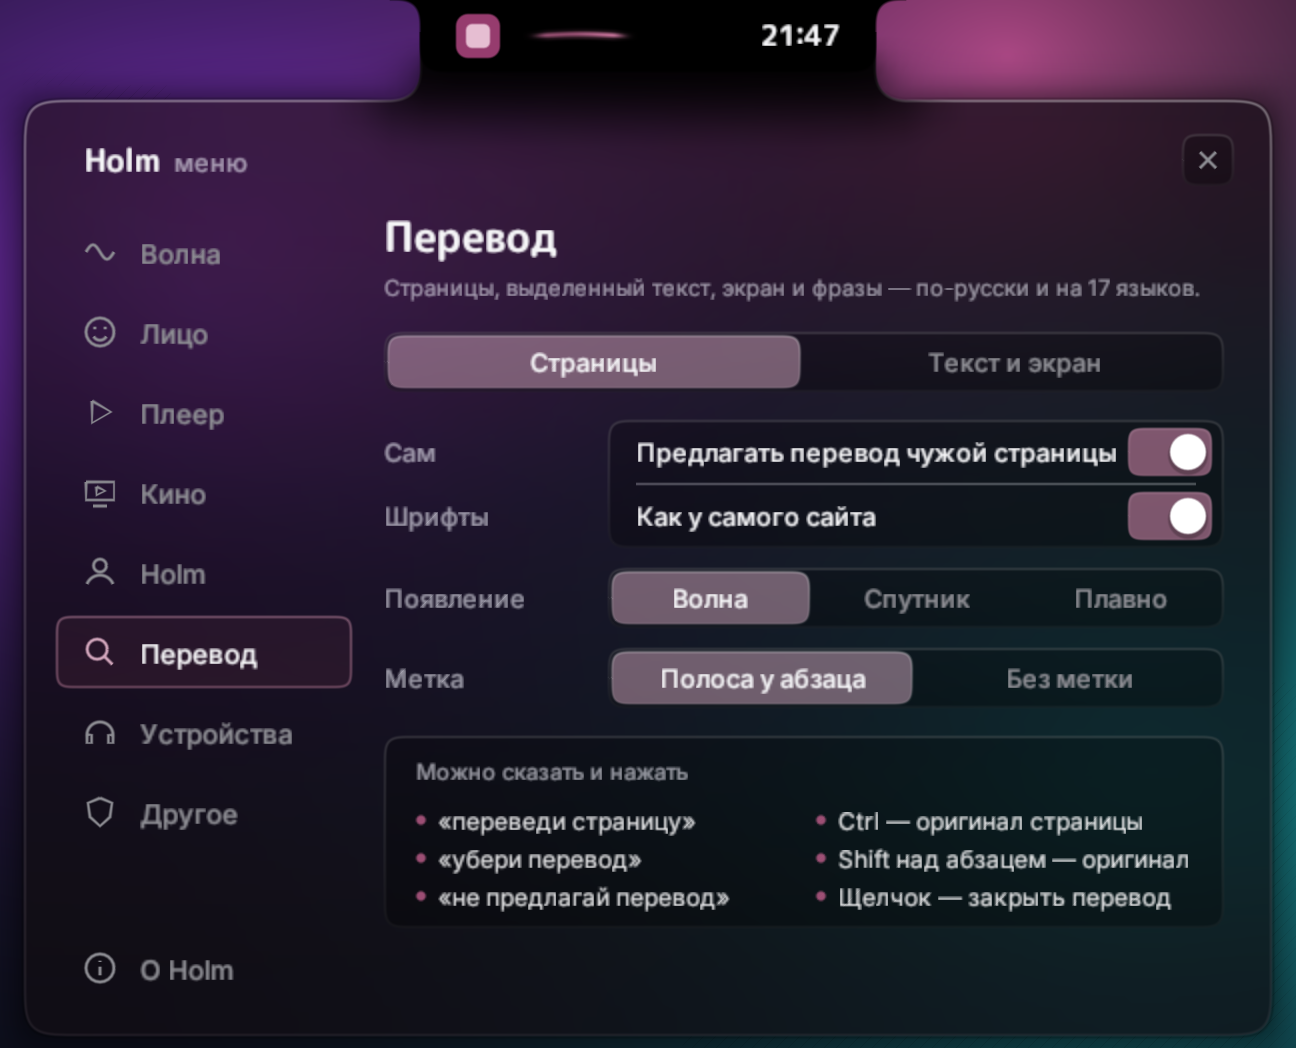
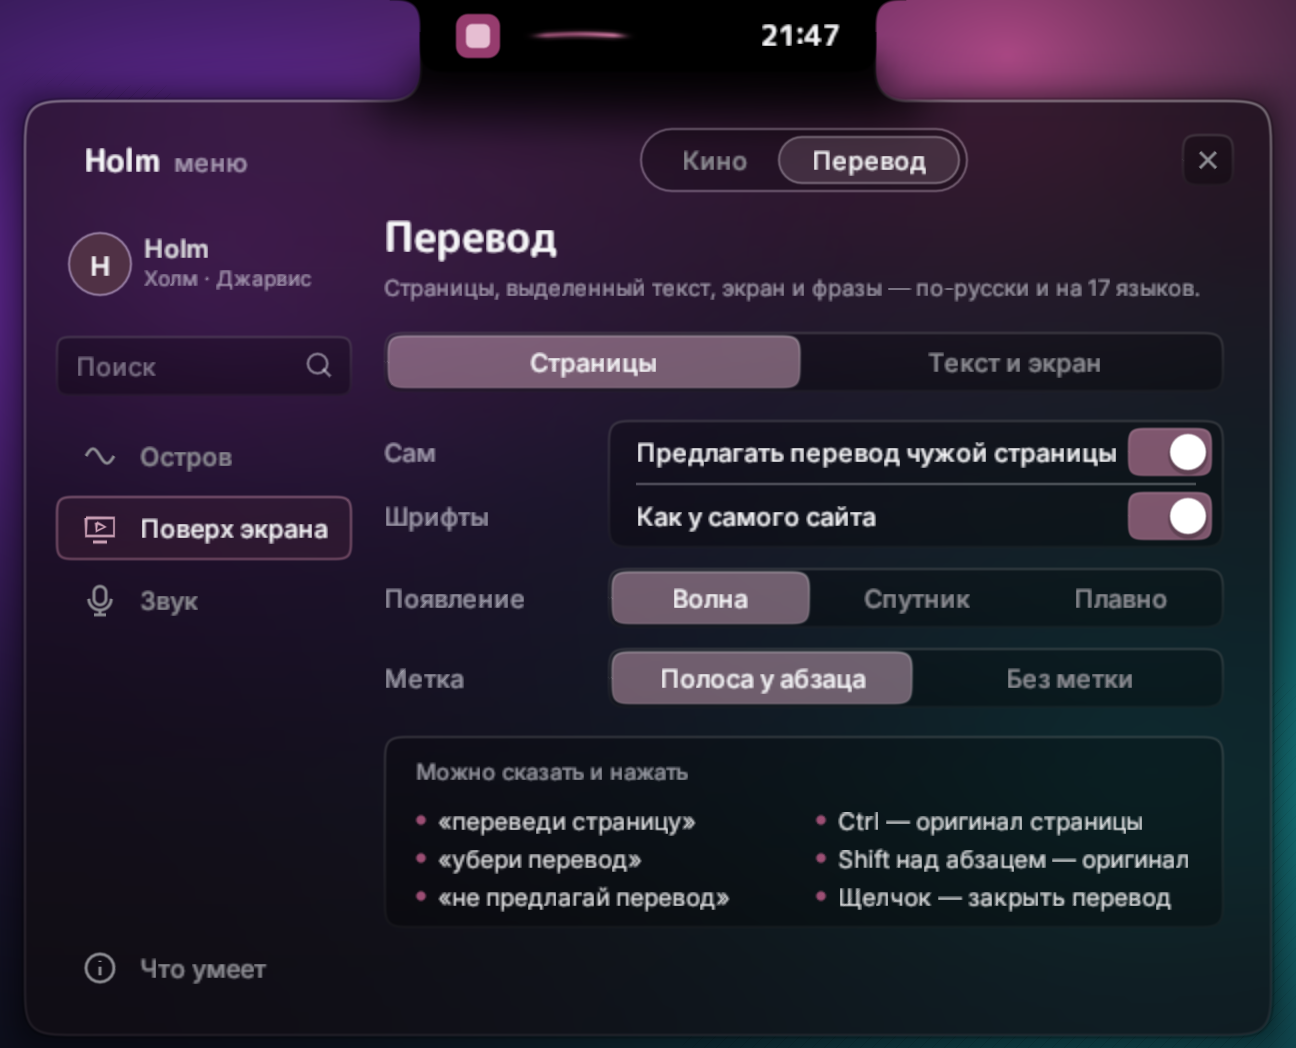
Holm 0.4 «Плеер»: свой плеер, «Дальше», «Холм, музыку»

diff --git a/CHANGELOG.md b/CHANGELOG.md
@@ -3,9 +3,61 @@
 # Что нового в Holm
 
 Каждая версия — здесь: что появилось и что стало лучше.<br>
-То же самое Holm показывает у себя: меню → «О Holm» → «Что нового».
+То же самое Holm показывает у себя: меню → «Что умеет» → «Что нового».
 
 </div>
+
+---
+
+## 0.4 «Плеер» · 24 ноября 2026
+
+> **У Holm — свой плеер.** Ролик в окне поверх всех играет сам Holm: без кнопок браузера, с плавным размером и списком «Дальше». А «Холм, музыку» включает именно музыку — даже если плеер ещё не запущен.
+
+### ▶ Свой плеер (бета)
+- **Ролик играет Holm** — меню → «Поверх экрана» → «Окно» → «Установить» (≈ 60 МБ бесплатных mpv, yt-dlp и QuickJS с GitHub, в папку Holm). Дальше «окно поверх» на ролике YouTube открывает его в своём плеере: кадр рисует видеокарта, кнопок браузера нет, браузер стоит на паузе и не тратит силы.
+- **Без паузы при переходе** — окно появляется сразу и сперва показывает плеер со страницы; свой плеер ждёт чуть впереди и подхватывает ролик, когда вкладка дойдёт до этой секунды, — картинка просто перетекает.
+- **«Дальше»** — кнопка в углу окна: что посмотреть следом, с обложками, длиной и каналом; щелчок — и ролик уже играет. В последние 15 секунд — «Дальше: …» с кольцом отсчёта.
+- **«Вернуть на страницу»** — вкладка продолжает с той же секунды (или открывается ролик, до которого вы дошли).
+
+### 🎵 «Холм, музыку»
+- **Одного слова хватает** — «музыку», «музон», «давай музыку». Включается музыка, а не ролик, который играл последним.
+- **Даже с нуля** — плеер не запущен: Holm запустит его сам и нажмёт «играть». Cider с пустой очередью продолжит то, что вы слушали.
+- **Знает, где вы слушаете** — Spotify, Яндекс Музыка, Cider, Apple Music, YouTube Music, VK, SoundCloud, Deezer, Tidal, AIMP… и запоминает, где больше. «Включи спотифай» — туда, и запомнит.
+
+### 🪟 Окно поверх
+- **Пульт из жидкого стекла** — берёт цвета кадра под собой; бегущей линии по краю больше нет.
+- **Звук ролика** — кнопка звука и громкость на пульте теперь про сам браузер, а не про весь компьютер.
+- **Чище края** — ни рамки, ни квадратиков в скруглённых углах; на паузе — без чёрной вспышки.
+- **Колесо — плавно** — размер ведёт пружина, пульт не мигает на каждом щелчке.
+- **Firefox и Zen** — переключатель «Без кнопок в окне браузера» прячет их кнопки в их собственном окне «картинка в картинке».
+
+### 🧭 Обучение
+- **«Показать, как мной пользоваться?»** — после знакомства Holm проводит по пяти живым шагам прямо на острове: музыка, таймер, кинотеатр, перевод, «что ты умеешь». Шаг можно пропустить, а всё — пройти заново: «Холм, обучение».
+
+---
+
+## 0.3 «Окна» · 23 ноября 2026
+
+> **Ролик — в окне поверх всех, окна — голосом, микрофон — без зависаний в играх.** И меню, в котором больше ничего не теряется.
+
+### 🪟 Окна
+- **Окно поверх всех** — «картинка в картинке»: ролик из браузера в небольшом окне в углу экрана, пока вы в другой программе. Тот же пульт, что в кинотеатре; окно таскают за картинку, размер меняют колесом — плавно; двойной щелчок возвращает ролик на страницу.
+- **Окна голосом** — «сверни приложение», «верни», «разверни на весь экран», «закрой вкладку», «сверни всё» — про то окно, где вы сейчас; и по имени: «сверни дискорд», «верни ютуб».
+
+### 🎧 Звук и игры
+- **Микрофон на выбор** — меню → «Звук»: как в Windows или свой. Сменили микрофон или выключили программу гарнитуры — Holm переходит сам, без перезапуска.
+- **Микрофон в игры через Holm** — игра слушает бесплатный виртуальный кабель VB-CABLE, а Holm кладёт в него ваш микрофон: микрофон меняется, а игра этого не замечает и не подвисает.
+- **Слух точнее** — линия микрофона больше не путает ваш голос со звуком из колонок.
+
+### ✦ Меню
+- **Пять комнат** — «вы», Остров, Поверх экрана, Звук и «Что умеет»; страницы комнаты — вкладками в шапке, как в macOS.
+- **Поиск** — напечатайте «мик», «реклама» или «караоке» — и сразу видно, где это.
+- **«Что умеет»** — всё, что можно попросить, с примерами; «Холм, что ты умеешь?» открывает эту страницу. Знакомство теперь тоже показывает умения и даёт попробовать первую просьбу.
+
+### 🔧 Мелочи
+- **Пульт ролика** больше не сбрасывается на 0:00 после перемотки.
+- **Скриншот** больше не закрывает кинотеатр — и кинотеатр виден на снимке.
+- **Меньше нагрузки** — Holm реже снимает экран и не дёргает устройства и браузер без нужды.
 
 ---
 

diff --git a/README.md b/README.md
@@ -76,8 +76,20 @@
 
 </div>
 
+## 🪟 Окна
+
+- **Окно поверх всех** — скажите «картинка в картинке»: ролик из браузера встанет небольшим окном в углу экрана и будет играть, пока вы в другой программе (в Firefox и Zen — даже со свёрнутым браузером). Тот же пульт, что в кинотеатре; окно таскают за картинку, размер меняют колесом, двойной щелчок — обратно на страницу.
+- **Свой плеер (бета)** — поставьте его одной кнопкой (меню → «Поверх экрана» → «Окно»), и «окно поверх» играет сам Holm: без кнопок браузера, с плавным размером и списком «Дальше» — что посмотреть следом. Переход с вкладки без паузы: картинка просто перетекает.
+- **Окна голосом** — «сверни приложение», «верни», «разверни на весь экран», «закрой вкладку», «сверни всё» — про окно, в котором вы сейчас. И по имени: «сверни дискорд», «верни ютуб».
+
+## 🎧 Звук и игры
+
+- **Микрофон на выбор** — как в Windows или свой. Выключили программу гарнитуры, воткнули другой микрофон — Holm переходит сам, без перезапуска.
+- **Микрофон в игры через Holm** — игры подвисают, когда Windows меняет микрофон. Поставьте бесплатный [VB-CABLE](https://vb-audio.com/Cable/), включите в меню → «Звук» → «Отдавать микрофон через Holm» и выберите в игре микрофоном «CABLE Output»: дальше микрофон меняется, а игра этого не замечает.
+
 ## 🎵 Музыка, которую видно
 
+- **«Холм, музыку»** — включает именно музыку, даже если плеер ещё не запущен: Holm сам знает, где вы слушаете (Spotify, Яндекс Музыка, Cider, YouTube Music…), запустит и нажмёт «играть».
 - **Любой плеер Windows** — Spotify, Яндекс Музыка, YouTube в браузере, Cider.
 - **Волна под трек** — бас щиплет струну, малый барабан рябит, нити отдельных инструментов. Три стиля: нити, столбики, точки. Режим «под трек» сам выбирает движение под музыку.
 - **Текст песни в такт** — строкой в острове или в карточке.
@@ -98,7 +110,7 @@
 
 ## ⚙ Всё настраивается
 
-Волна, лицо, плеер, перевод, кино, иконка, имя, на которое он откликается, автозапуск и обновления — в стеклянном меню, и каждый вариант показан вживую, прежде чем вы его выберете. Всё, что Holm понимает, — там же: меню → «О Holm».
+Волна, лицо, плеер, перевод, кино, микрофон, иконка, имя, на которое он откликается, автозапуск и обновления — в стеклянном меню из пяти комнат, со вкладками и поиском, и каждый вариант показан вживую, прежде чем вы его выберете. Всё, что Holm понимает, — там же: меню → «Что умеет» (или просто: «Холм, что ты умеешь?»).
 
 <table>
 <tr>
@@ -109,13 +121,11 @@
 <td><img src="docs/screens/menu-lens.png" alt="Меню: перевод"></td>
 <td><img src="docs/screens/menu-cinema.png" alt="Меню: кино"></td>
 </tr>
+<tr>
+<td><img src="docs/screens/menu-sound.png" alt="Меню: звук"></td>
+<td><img src="docs/screens/menu-about.png" alt="Меню: что Holm умеет"></td>
+</tr>
 </table>
-
-<div align="center">
-
-<img src="docs/screens/menu-about.png" width="640" alt="Меню Holm: что он понимает">
-
-</div>
 
 ## 💎 Бесплатно и Pro
 
@@ -135,10 +145,13 @@
 | Щит от рекламы и слежки во всех браузерах | ✓ | ✓ |
 | Мгновения Windows, точки приватности, заряд устройств, плашки игр | ✓ | ✓ |
 | Обновление одним касанием | ✓ | ✓ |
-| Окно поверх всех: ролик в углу экрана, пока вы в другой программе | в планах | в планах |
+| Окно поверх всех: ролик в углу экрана, пока вы в другой программе | ✓ | ✓ |
+| **Свой плеер** — ролик играет Holm, без кнопок браузера, со списком «Дальше» | ✓ пока бета | ✓ |
+| «Холм, музыку» — музыка с нуля, в вашем сервисе | ✓ | ✓ |
+| Окна голосом: свернуть, вернуть, развернуть, закрыть | ✓ | ✓ |
+| Микрофон на выбор и микрофон в игры через Holm (с VB-CABLE) | ✓ | ✓ |
 | История скопированного, таймер сосредоточенности, диктовка в любое поле | в планах | в планах |
 | **Живые субтитры с переводом** — русские субтитры под роликом на чужом языке | — | готовится |
-| **Свой плеер** — ролик в окне Holm, без страницы вокруг | — | готовится |
 
 ## ⬇ Как поставить
 
